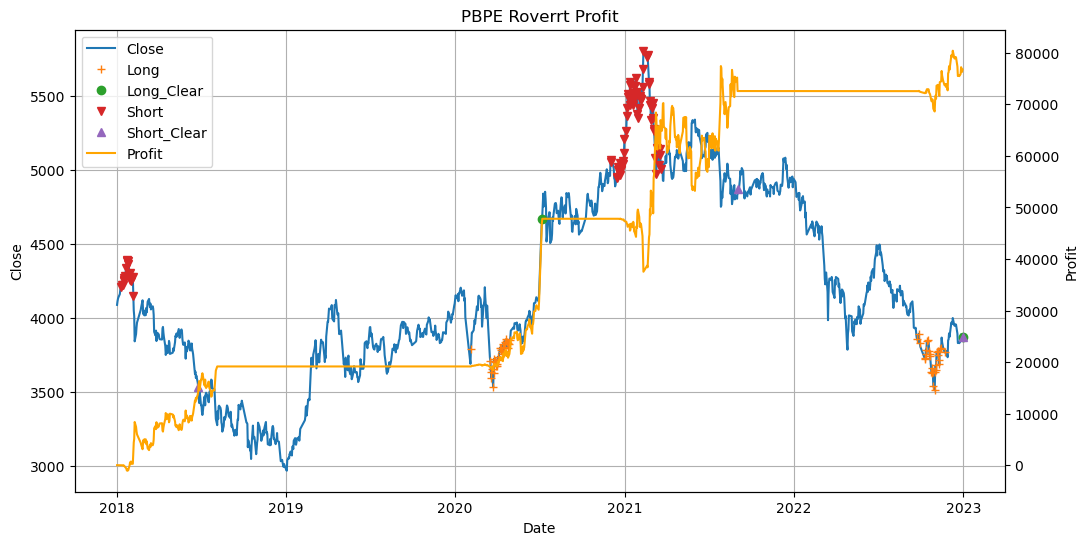
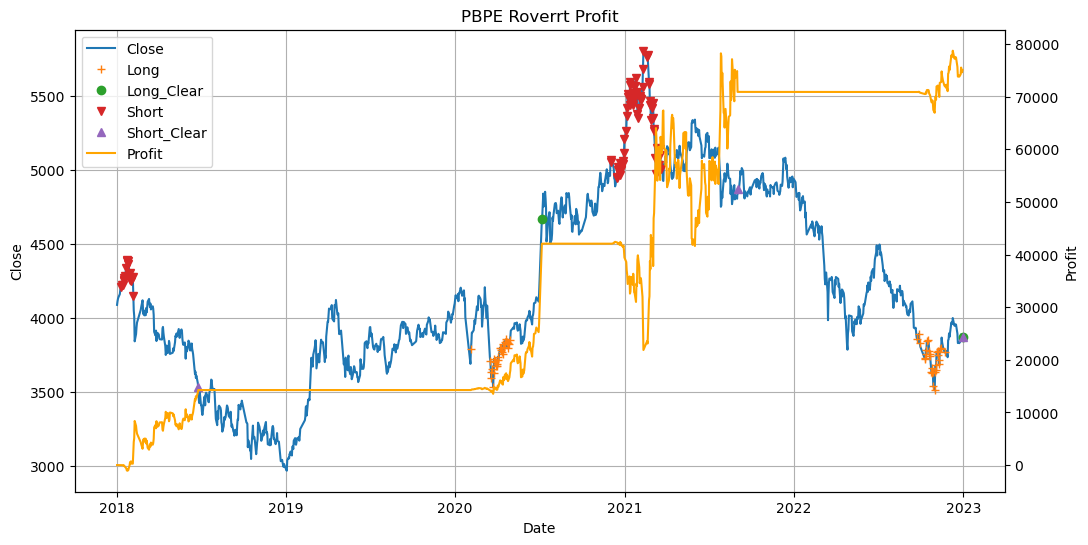
Fixed

diff --git a/backtest.py b/backtest.py
@@ -6,10 +6,11 @@ pbpe_upper_signal = upper_singal(data = pbpe_rank, upper_bond=0.95, upper_clear=
 profit_long_pbpe = back_test_long(price_data = close, signal_data = pbpe_low_signal)
 profit_short_pbpe = back_test_short(price_data = close, signal_data = pbpe_upper_signal)
 
-profit_pbpe = {"Date": profit_long_pbpe["Date"], "Daily_long": profit_long_pbpe["daily_Profit"], "Daily_Short": profit_short_pbpe["daily_Profit"]}
+profit_pbpe = {"Date": profit_long_pbpe["Date"], "Daily_long": profit_long_pbpe["daily_Profit"], "Long_cost": profit_long_pbpe["Cost"], "Short_cost": profit_short_pbpe["Cost"],"Daily_short": profit_short_pbpe["daily_Profit"]}
 profit_pbpe = pd.DataFrame(profit_pbpe)
-profit_pbpe["Total"] = profit_pbpe["Daily_long"].cumsum() + profit_pbpe["Daily_Short"].cumsum()
-
+profit_pbpe["Total"] = profit_pbpe["Daily_long"].cumsum() + profit_pbpe["Daily_short"].cumsum()
+profit_pbpe["Daily_return"] = ((profit_pbpe["Daily_long"] + profit_pbpe["Daily_short"])/(profit_pbpe["Long_cost"] + profit_pbpe["Short_cost"])).replace(np.nan, 0) + 1
+profit_pbpe["Return"] = profit_pbpe["Daily_return"].cumprod()
 
 
 plt.figure(num = 1, figsize = (12,6))
@@ -42,14 +43,37 @@ lines2, labels2 = ax2.get_legend_handles_labels()
 ax1.legend(lines1 + lines2, labels1 +labels2, loc = "upper left")
 plt.show()
 
+fig, ax1 = plt.subplots(num = 1, figsize = (12,6))
+plt.grid(1)
+ax1.plot(close["Date"], close["HS300_close"], label = "Close")
+ax1.plot(profit_long_pbpe[profit_long_pbpe["Signal_long"] == 'Long'].Date, profit_long_pbpe[profit_long_pbpe["Signal_long"] == 'Long']["HS300_close"], "+", label = "Long")
+ax1.plot(profit_long_pbpe[profit_long_pbpe["Signal_long"] == 'Clear'].Date, profit_long_pbpe[profit_long_pbpe["Signal_long"] == 'Clear']["HS300_close"], "o", label = "Long_Clear")
+ax1.plot(profit_short_pbpe[profit_short_pbpe["Signal_short"] == 'Short'].Date, profit_short_pbpe[profit_short_pbpe["Signal_short"] == 'Short']["HS300_close"], "v", label = "Short")
+ax1.plot(profit_short_pbpe[profit_short_pbpe["Signal_short"] == 'Clear'].Date, profit_short_pbpe[profit_short_pbpe["Signal_short"] == 'Clear']["HS300_close"], "^", label = "Short_Clear")
+ax1.set_ylabel("Close")
+ax2 = ax1.twinx()
+ax2.plot(profit_pbpe["Date"], profit_pbpe["Return"], color = "orange",label = "Return")
+ax2.set_ylabel("Net")
+ax1.set_xlabel("Date")
+plt.title("PBPE Return")
+lines1, labels1 = ax1.get_legend_handles_labels()
+lines2, labels2 = ax2.get_legend_handles_labels()
+ax1.legend(lines1 + lines2, labels1 +labels2, loc = "upper left")
+plt.show()
+
+
+## roverrt back test
+
 roverrt_low_signal = low_singal(data = roverrt_rank, low_bond=0.05, low_clear=0.6)
 roverrt_upper_signal = upper_singal(data = roverrt_rank, upper_bond=0.95, upper_clear=0.4)
 profit_long_roverrt = back_test_long(price_data = close, signal_data = roverrt_low_signal)
 profit_short_roverrt = back_test_short(price_data = close, signal_data = roverrt_upper_signal)
 
-profit_roverrt = {"Date": profit_long_roverrt["Date"], "Daily_long": profit_long_roverrt["daily_Profit"], "Daily_Short": profit_short_roverrt["daily_Profit"]}
+profit_roverrt = {"Date": profit_long_roverrt["Date"], "Daily_long": profit_long_roverrt["daily_Profit"], "Long_cost": profit_long_roverrt["Cost"], "Daily_short": profit_short_roverrt["daily_Profit"], "Short_cost": profit_short_roverrt["Cost"]}
 profit_roverrt = pd.DataFrame(profit_roverrt)
-profit_roverrt["Total"] = profit_roverrt["Daily_long"].cumsum() + profit_roverrt["Daily_Short"].cumsum()
+profit_roverrt["Total"] = profit_roverrt["Daily_long"].cumsum() + profit_roverrt["Daily_short"].cumsum()
+profit_roverrt["Daily_return"] = ((profit_roverrt["Daily_long"] + profit_roverrt["Daily_short"])/(profit_roverrt["Long_cost"] + profit_roverrt["Short_cost"])).replace(np.nan, 0) + 1
+profit_roverrt["Return"] = profit_roverrt["Daily_return"].cumprod()
 
 
 plt.figure(num = 1, figsize = (12,6))
@@ -82,6 +106,26 @@ lines2, labels2 = ax2.get_legend_handles_labels()
 ax1.legend(lines1 + lines2, labels1 +labels2, loc = "upper left")
 plt.show()
 
+fig, ax1 = plt.subplots(num = 1, figsize = (12,6))
+plt.grid(1)
+ax1.plot(close["Date"], close["HS300_close"], label = "Close")
+ax1.plot(profit_long_roverrt[profit_long_roverrt["Signal_long"] == 'Long'].Date, profit_long_roverrt[profit_long_roverrt["Signal_long"] == 'Long']["HS300_close"], "+", label = "Long")
+ax1.plot(profit_long_roverrt[profit_long_roverrt["Signal_long"] == 'Clear'].Date, profit_long_roverrt[profit_long_roverrt["Signal_long"] == 'Clear']["HS300_close"], "o", label = "Long_Clear")
+ax1.plot(profit_short_roverrt[profit_short_roverrt["Signal_short"] == 'Short'].Date, profit_short_roverrt[profit_short_roverrt["Signal_short"] == 'Short']["HS300_close"], "v", label = "Short")
+ax1.plot(profit_short_roverrt[profit_short_roverrt["Signal_short"] == 'Clear'].Date, profit_short_roverrt[profit_short_roverrt["Signal_short"] == 'Clear']["HS300_close"], "^", label = "Short_Clear")
+ax1.set_ylabel("Close")
+ax2 = ax1.twinx()
+ax2.plot(profit_roverrt["Date"], profit_roverrt["Return"], color = "orange",label = "Return")
+ax2.set_ylabel("Return")
+ax1.set_xlabel("Date")
+plt.title("Roverrt Return")
+lines1, labels1 = ax1.get_legend_handles_labels()
+lines2, labels2 = ax2.get_legend_handles_labels()
+ax1.legend(lines1 + lines2, labels1 +labels2, loc = "upper left")
+plt.show()
+
+## pbpe and rovvert
+
 pbpe_roverrt = pbpe_rank.merge(roverrt_rank, on = "Date")
 
 two_low_signal = low_singal_two(data = pbpe_roverrt, low_bond = 0.05, low_clear = 0.6)
@@ -101,9 +145,12 @@ plt.title("PBPE roverrt and Price")
 plt.xlabel('Date')
 plt.show()
 
-profit_two = {"Date": profit_long_two["Date"], "Daily_long": profit_long_two["daily_Profit"], "Daily_Short": profit_short_two["daily_Profit"]}
+profit_two = {"Date": profit_long_two["Date"], "Daily_long": profit_long_two["daily_Profit"], "Long_cost": profit_long_two["Cost"], "Daily_short": profit_short_two["daily_Profit"], "Short_cost": profit_short_two["Cost"]}
 profit_two = pd.DataFrame(profit_two)
-profit_two["Total"] = profit_two["Daily_long"].cumsum() + profit_two["Daily_Short"].cumsum()
+profit_two["Total"] = profit_two["Daily_long"].cumsum() + profit_two["Daily_short"].cumsum()
+profit_two["Daily_return"] = ((profit_two["Daily_long"] + profit_two["Daily_short"])/(profit_two["Long_cost"] + profit_two["Short_cost"])).replace(np.nan, 0) + 1
+profit_two["Return"] = profit_two["Daily_return"].cumprod()
+
 
 fig, ax1 = plt.subplots(num = 1, figsize = (12,6))
 plt.grid(1)
@@ -114,7 +161,7 @@ ax1.plot(profit_short_two[profit_short_two["Signal_short"] == 'Short'].Date, pro
 ax1.plot(profit_short_two[profit_short_two["Signal_short"] == 'Clear'].Date, profit_short_two[profit_short_two["Signal_short"] == 'Clear']["HS300_close"], "^", label = "Short_Clear")
 ax1.set_ylabel("Close")
 ax2 = ax1.twinx()
-ax2.plot(profit_roverrt["Date"], profit_roverrt["Total"], color = "orange",label = "Profit")
+ax2.plot(profit_two["Date"], profit_two["Total"], color = "orange",label = "Profit")
 ax2.set_ylabel("Profit")
 ax1.set_xlabel("Date")
 plt.title("PBPE Roverrt Profit")
@@ -123,21 +170,54 @@ lines2, labels2 = ax2.get_legend_handles_labels()
 ax1.legend(lines1 + lines2, labels1 +labels2, loc = "upper left")
 plt.show()
 
+
+fig, ax1 = plt.subplots(num = 1, figsize = (12,6))
+plt.grid(1)
+ax1.plot(close["Date"], close["HS300_close"], label = "Close")
+ax1.plot(profit_long_two[profit_long_two["Signal_long"] == 'Long'].Date, profit_long_two[profit_long_two["Signal_long"] == 'Long']["HS300_close"], "+", label = "Long")
+ax1.plot(profit_long_two[profit_long_two["Signal_long"] == 'Clear'].Date, profit_long_two[profit_long_two["Signal_long"] == 'Clear']["HS300_close"], "o", label = "Long_Clear")
+ax1.plot(profit_short_two[profit_short_two["Signal_short"] == 'Short'].Date, profit_short_two[profit_short_two["Signal_short"] == 'Short']["HS300_close"], "v", label = "Short")
+ax1.plot(profit_short_two[profit_short_two["Signal_short"] == 'Clear'].Date, profit_short_two[profit_short_two["Signal_short"] == 'Clear']["HS300_close"], "^", label = "Short_Clear")
+ax1.set_ylabel("Close")
+ax2 = ax1.twinx()
+ax2.plot(profit_two["Date"], profit_two["Return"], color = "orange",label = "Return")
+ax2.set_ylabel("Profit")
+ax1.set_xlabel("Date")
+plt.title("PBPE Roverrt Profit")
+lines1, labels1 = ax1.get_legend_handles_labels()
+lines2, labels2 = ax2.get_legend_handles_labels()
+ax1.legend(lines1 + lines2, labels1 +labels2, loc = "upper left")
+plt.show()
+
+
 profit_two # 77259.3542
 profit_roverrt # 76736.3364
 
 # signal with crowding
 
-exp_rank["Signal_a"] = exp_rank["close"].apply(signal)
-ret_skew_rank["Signal_b"] = ret_skew_rank['close'].apply(signal)
-close_turn_rank['Signal_c'] = close_turn_rank["Corr"].apply(signal)
-ret_kur_rank['Signal_d'] =ret_kur_rank['close'].apply(signal) 
+exp_crowding = exp_rank["close"].apply(crowding_upper_signal)
+ret_skew_crowding = ret_skew_rank['close'].apply(crowding_upper_signal)
+close_turn_crowding = close_turn_rank["Corr"].apply(crowding_upper_signal)
+ret_kur_crowding =ret_kur_rank['close'].apply(crowding_upper_signal)
+Hindenburgdelta_crowding = Hindenburgdelta_rank['Hindenburgdelta'].apply(crowding_upper_signal) 
 
-crowding = exp_rank.merge(ret_skew_rank, on = "Date").merge(close_turn_rank, on = "Date").merge(ret_kur_rank, on = "Date")[["Date", "Signal_a", "Signal_b","Signal_c","Signal_d" ]]
-crowding["Signal"] = crowding[["Signal_a", "Signal_b","Signal_c","Signal_d"]].sum(axis = 1)
-crowding["Crowding"] = crowding["Signal"].apply(signal)
+crowding_upper = exp_crowding + ret_skew_crowding + ret_kur_crowding + Hindenburgdelta_crowding
+crowding_upper = {"Date": exp_rank["Date"], "Crowding": crowding_upper}
+crowding_upper = pd.DataFrame(crowding_upper)
 
-pbpe_crowding = low_singal_crowded(data = pbpe_rank, low_bond = 0.05, low_clear = 0.6, crowded_data = crowding, after_day = 20)
+
+exp_crowding = exp_rank["close"].apply(crowding_lower_signal)
+ret_skew_crowding = ret_skew_rank['close'].apply(crowding_lower_signal)
+close_turn_crowding = close_turn_rank["Corr"].apply(crowding_lower_signal)
+ret_kur_crowding =ret_kur_rank['close'].apply(crowding_lower_signal)
+Hindenburgdelta_crowding = Hindenburgdelta_rank['Hindenburgdelta'].apply(crowding_lower_signal) 
+
+crowding_upper = exp_crowding + ret_skew_crowding + ret_kur_crowding + Hindenburgdelta_crowding
+crowding_upper = {"Date": exp_rank["Date"], "Crowding": crowding_upper}
+crowding_upper = pd.DataFrame(crowding_upper)
+
+
+pbpe_crowding = low_singal_crowded(data = pbpe_rank, low_bond = 0.05, low_clear = 0.6, crowded_data = crowding_upper, after_day = 20)
 profit_long_pbpe_crowding = back_test_long(price_data = close, signal_data = pbpe_crowding)
 
 profit_long_pbpe_crowding

diff --git a/Function.py b/Function.py
@@ -218,7 +218,7 @@ def back_test_long(price_data, signal_data):
     data["Cost"] = data["HS300_close"] * data["Long_position"] - data["daily_Profit"]
     data["Profit"] = data["daily_Profit"].cumsum()
 
-    return data[["Date", "daily_Profit", "Profit"]]
+    return data
 
 def back_test_short(price_data, signal_data):
     data = price_data.merge(signal_data)

diff --git a/README.md b/README.md
@@ -51,3 +51,11 @@
 
 profit_pbpe_roverrt: 77259.3542
 profit_roverrt: 76736.3364
+
+**回报率**
+
+1. PBPE
+   ![](./plot/return_pbpe.png)
+
+2. Roverrt
+   ![](./plot/return_roverrt.png)
